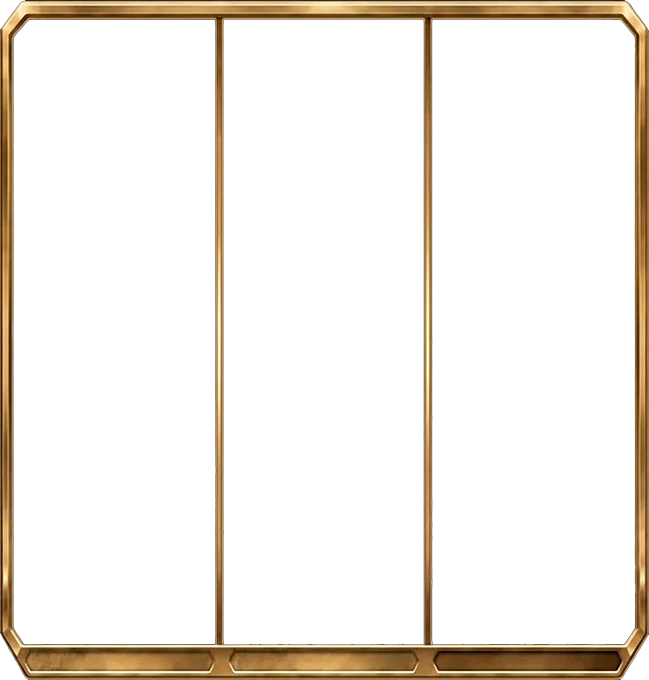
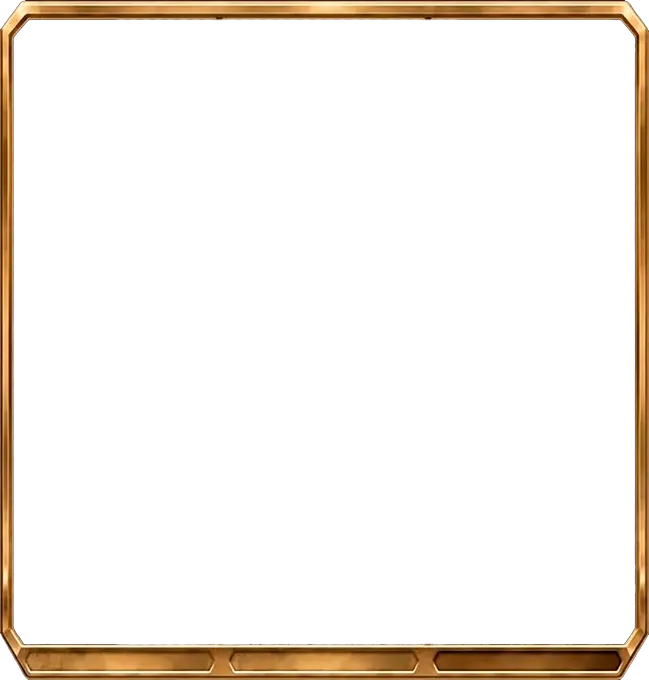
joker.creo

Changed region(s): [[0.3082, 0.0309, 0.3698, 0.9574], [0.6471, 0.0309, 0.678, 0.9574]]

diff --git a/style.css b/style.css
@@ -1313,79 +1313,38 @@ body {
 }
 
 #slotStage {
-    width: 340px;
+    width: 390px;
     padding-top: 0;
 }
 
 #slotArea {
-    --symbol-height: 103px;
+    --symbol-height: 83.333px;
 
-    width: 340px;
-    height: 340px;
+    width: 390px;
+    height: 250px;
     max-width: none;
-    padding: 11px;
-
-    border-radius: 12px;
-    border-width: 3px;
-
-    box-shadow:
-        0 0 20px rgba(255, 89, 18, 0.75),
-        inset 0 0 18px rgba(255, 199, 64, 0.14);
-}
-
-#slotArea.asset-slot-frame {
-    --symbol-height: 108px;
-
-    background: transparent !important;
-    border-color: transparent !important;
-    border-radius: 0;
     padding: 0;
+    background: transparent !important;
+    border: 0;
+    border-radius: 0;
     box-shadow: none !important;
 }
 
-#slotFrameImg {
-    position: absolute;
-    inset: -1px;
-
-    width: calc(100% + 2px);
-    height: calc(100% + 2px);
-    object-fit: fill;
-
-    pointer-events: none;
-    z-index: 14;
-    display: none;
-}
-
-#slotArea.asset-slot-frame #slotFrameImg {
-    display: block;
-}
-
-#slotArea.asset-slot-frame #reels {
-    position: absolute;
-    inset: 4px;
-    width: auto;
-    height: auto;
-
-    background: linear-gradient(180deg, rgba(34, 8, 11, 0.6) 0%, rgba(8, 1, 3, 0.6) 100%);
+#reels {
+    gap: 0;
+    background: transparent;
     box-shadow: none;
-    clip-path: polygon(
-        4% 0,
-        94.2% 0,
-        100% 4%,
-        100% 94.2%,
-        94.2% 100%,
-        4% 100%,
-        0 94.2%,
-        0 4%
-    );
+    overflow: hidden;
 }
 
-#slotArea.asset-slot-frame #reels>div {
+#reels>div {
+    overflow: visible;
+    contain: none;
     border-color: transparent !important;
-    background: linear-gradient(180deg, rgba(33, 7, 12, 0.6) 0%, rgba(7, 1, 3, 0.6) 100%) !important;
+    background: transparent !important;
 }
 
-#slotArea.asset-slot-frame #reels>div::after {
+#reels>div::after {
     border-color: transparent;
     box-shadow: none;
 }
@@ -1395,8 +1354,8 @@ body {
 }
 
 .symbol-img {
-    width: 88%;
-    height: 88%;
+    width: 128%;
+    height: 128%;
     object-fit: contain;
 }
 
@@ -1623,21 +1582,28 @@ body {
     content: "";
 
     position: absolute;
-    left: 3px;
-    right: 3px;
-    top: calc(50% - var(--symbol-height) / 2 - 2px);
-    height: calc(var(--symbol-height) + 4px);
+    left: 0;
+    right: 0;
+    top: 50%;
+    height: 3px;
 
-    border: 2px solid rgba(255, 232, 146, 0.96);
-    border-radius: 8px;
+    border: 0;
+    border-radius: 999px;
+    background: linear-gradient(
+        90deg,
+        rgba(255, 207, 74, 0),
+        rgba(255, 239, 163, 0.98) 12%,
+        rgba(255, 224, 103, 1) 50%,
+        rgba(255, 239, 163, 0.98) 88%,
+        rgba(255, 207, 74, 0)
+    );
 
     opacity: 0;
+    transform: translateY(-50%);
     pointer-events: none;
     z-index: 20;
 
-    box-shadow:
-        0 0 18px rgba(255, 226, 120, 0.95),
-        inset 0 0 18px rgba(255, 226, 120, 0.28);
+    box-shadow: 0 0 12px rgba(255, 226, 120, 0.9);
 
     transition: opacity 0.18s ease;
 }
@@ -1669,15 +1635,11 @@ body {
 @keyframes winLineGlow {
     0%,
     100% {
-        box-shadow:
-            0 0 14px rgba(255, 226, 120, 0.76),
-            inset 0 0 14px rgba(255, 226, 120, 0.22);
+        box-shadow: 0 0 9px rgba(255, 226, 120, 0.72);
     }
 
     50% {
-        box-shadow:
-            0 0 28px rgba(255, 240, 160, 1),
-            inset 0 0 24px rgba(255, 226, 120, 0.38);
+        box-shadow: 0 0 20px rgba(255, 240, 160, 1);
     }
 }
 

diff --git a/script.js b/script.js
@@ -5,7 +5,6 @@ const spinBtn = document.getElementById("spinBtn");
 const topWinPanel = document.getElementById("topWinPanel");
 const topWinPanelArt = document.getElementById("topWinPanelArt");
 const slotArea = document.getElementById("slotArea");
-const slotFrameImg = document.getElementById("slotFrameImg");
 const gameLogo = document.getElementById("gameLogo");
 const ctaPopup = document.getElementById("ctaPopup");
 const ctaTitle = document.getElementById("ctaTitle");
@@ -823,24 +822,6 @@ function spawnCoinParticlesFromWinCoins(outcome) {
     }
 }
 
-function getBillTargetPoint() {
-    const targetElement = topWinPanelText || topWinPanel;
-
-    if (!targetElement) {
-        return {
-            x: window.innerWidth / 2,
-            y: 90
-        };
-    }
-
-    const rect = targetElement.getBoundingClientRect();
-
-    return {
-        x: rect.left + rect.width / 2,
-        y: rect.top + rect.height / 2
-    };
-}
-
 function createBillParticle(startX, startY, index = 0) {
     const effects = gameConfig.effects;
 
@@ -848,14 +829,15 @@ function createBillParticle(startX, startY, index = 0) {
         return;
     }
 
-    const target = getBillTargetPoint();
     const bill = document.createElement("div");
     const width = effects.billParticleWidth || 72;
     const duration = effects.billParticleDuration || 980;
-    const arcY = -getRandomNumber(70, 125);
-    const startRotation = 0;
-    const midRotation = 0;
-    const endRotation = 0;
+    const horizontalDrift = getRandomNumber(-110, 110);
+    const endX = startX + horizontalDrift;
+    const endY = window.innerHeight + width;
+    const startRotation = getRandomNumber(-8, 8);
+    const midRotation = startRotation + getRandomNumber(-16, 16);
+    const endRotation = midRotation + getRandomNumber(-24, 24);
 
     addClasses(bill, "bill-particle");
 
@@ -863,10 +845,10 @@ function createBillParticle(startX, startY, index = 0) {
     bill.style.setProperty("--bill-duration", `${duration}ms`);
     bill.style.setProperty("--bill-start-x", `${startX}px`);
     bill.style.setProperty("--bill-start-y", `${startY}px`);
-    bill.style.setProperty("--bill-mid-x", `${startX + (target.x - startX) * 0.35}px`);
-    bill.style.setProperty("--bill-mid-y", `${startY + (target.y - startY) * 0.35 + arcY}px`);
-    bill.style.setProperty("--bill-end-x", `${target.x}px`);
-    bill.style.setProperty("--bill-end-y", `${target.y}px`);
+    bill.style.setProperty("--bill-mid-x", `${startX + horizontalDrift * 0.35}px`);
+    bill.style.setProperty("--bill-mid-y", `${startY + (endY - startY) * 0.38}px`);
+    bill.style.setProperty("--bill-end-x", `${endX}px`);
+    bill.style.setProperty("--bill-end-y", `${endY}px`);
     bill.style.setProperty("--bill-pop-scale", effects.billParticlePopScale || 1.08);
     bill.style.setProperty("--bill-target-scale", effects.billParticleTargetScale || 0.24);
     bill.style.setProperty("--bill-rotation-start", `${startRotation}deg`);
@@ -1438,9 +1420,6 @@ function applyGameAssets() {
             "--slot-frame-image",
             `url("${gameConfig.assets.slotFrame}")`
         );
-        if (slotFrameImg) {
-            slotFrameImg.src = gameConfig.assets.slotFrame;
-        }
         addClasses(slotArea, "asset-slot-frame");
     }
 

diff --git a/config.js b/config.js
@@ -1,4 +1,4 @@
-export const gameConfig = {
+export const gameConfig = {
     // =========================
     // 1. BASIC GAME SETTINGS
     // =========================
@@ -78,7 +78,7 @@ export const gameConfig = {
         background: "assets/background.webp",
         logo: "assets/logo.webp",
         bill: "assets/bill.webp",
-        slotFrame: "assets/slot-frame.webp",
+        slotFrame: "",
 
         ui: {
             balancePanel: "assets/ui/balance-panel.webp",
@@ -181,7 +181,7 @@ export const gameConfig = {
         billParticleStagger: 95,
         billParticleWidth: 108,
         billParticlePopScale: 1.08,
-        billParticleTargetScale: 0.24,
+        billParticleTargetScale: 0.72,
         billRainCount: 15,
         billRainDuration: 3600,
         billRainWidthMin: 82,
@@ -401,6 +401,21 @@ export const gameConfig = {
                 "s4", "s3", "s1",
                 "coin", "coin", "coin",
                 "s7", "s2", "s1"
+            ]
+        },
+
+        {
+            type: "lose",
+            spinSfx: "spin3",
+            balance: 350,
+            bonusCash: 300,
+            bonusFreeSpins: 50,
+            balanceDelay: 0,
+            balanceCountDuration: 0,
+            reels: [
+                "s2", "s5", "s7",
+                "s4", "s1", "s6",
+                "s3", "s7", "s2"
             ]
         },
 

diff --git a/index.html b/index.html
@@ -37,7 +37,6 @@
 
             <div id="slotStage">
                 <div id="slotArea">
-                    <img id="slotFrameImg" alt="" aria-hidden="true">
                     <div id="reels">
                         <div>
                             <div></div>
